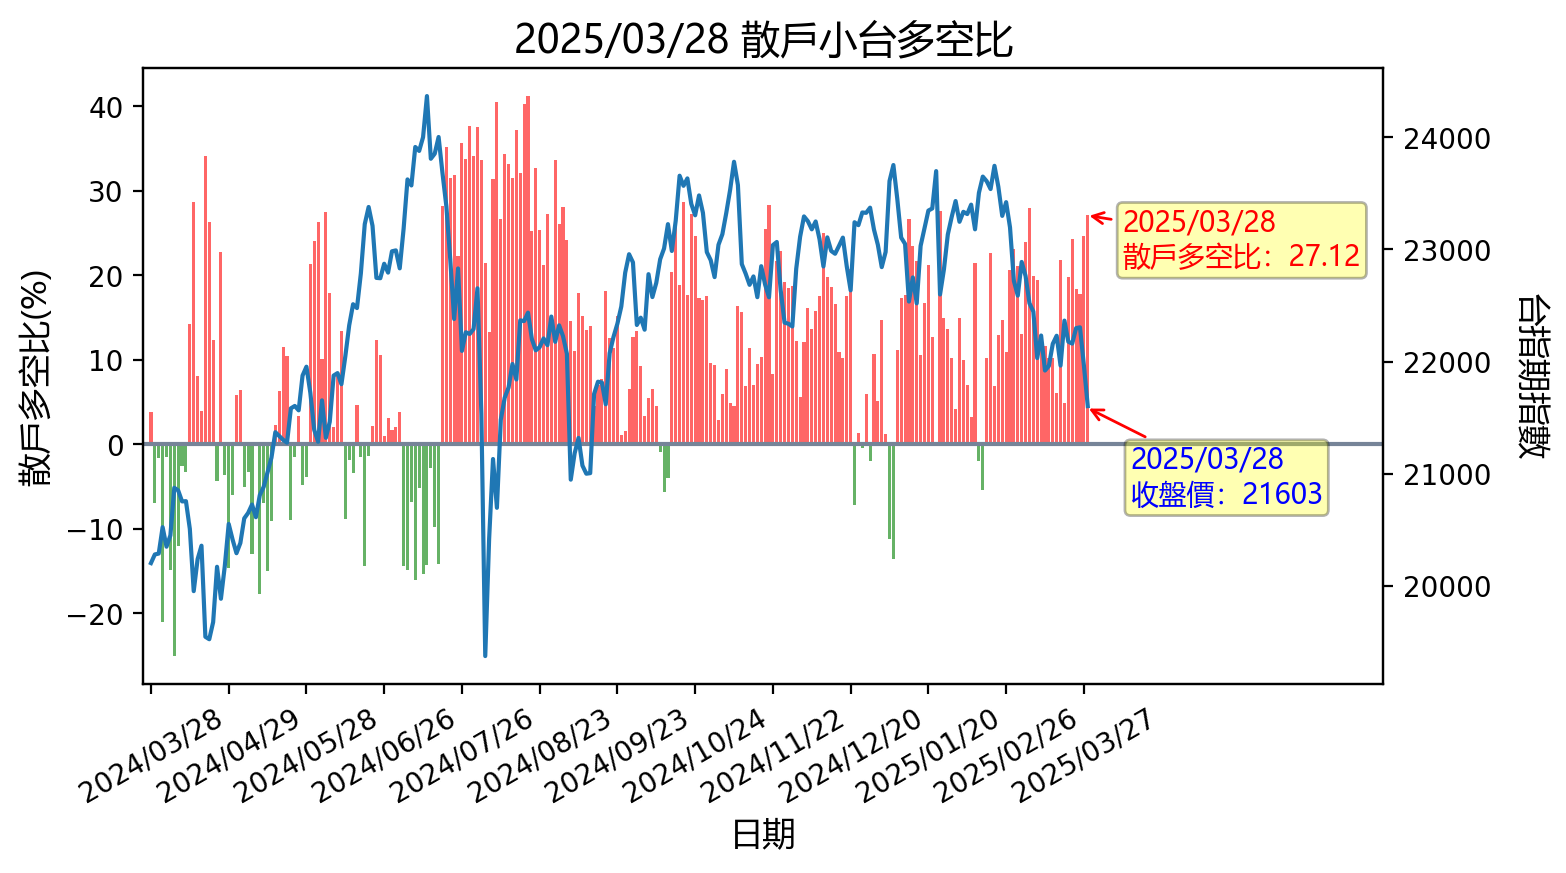
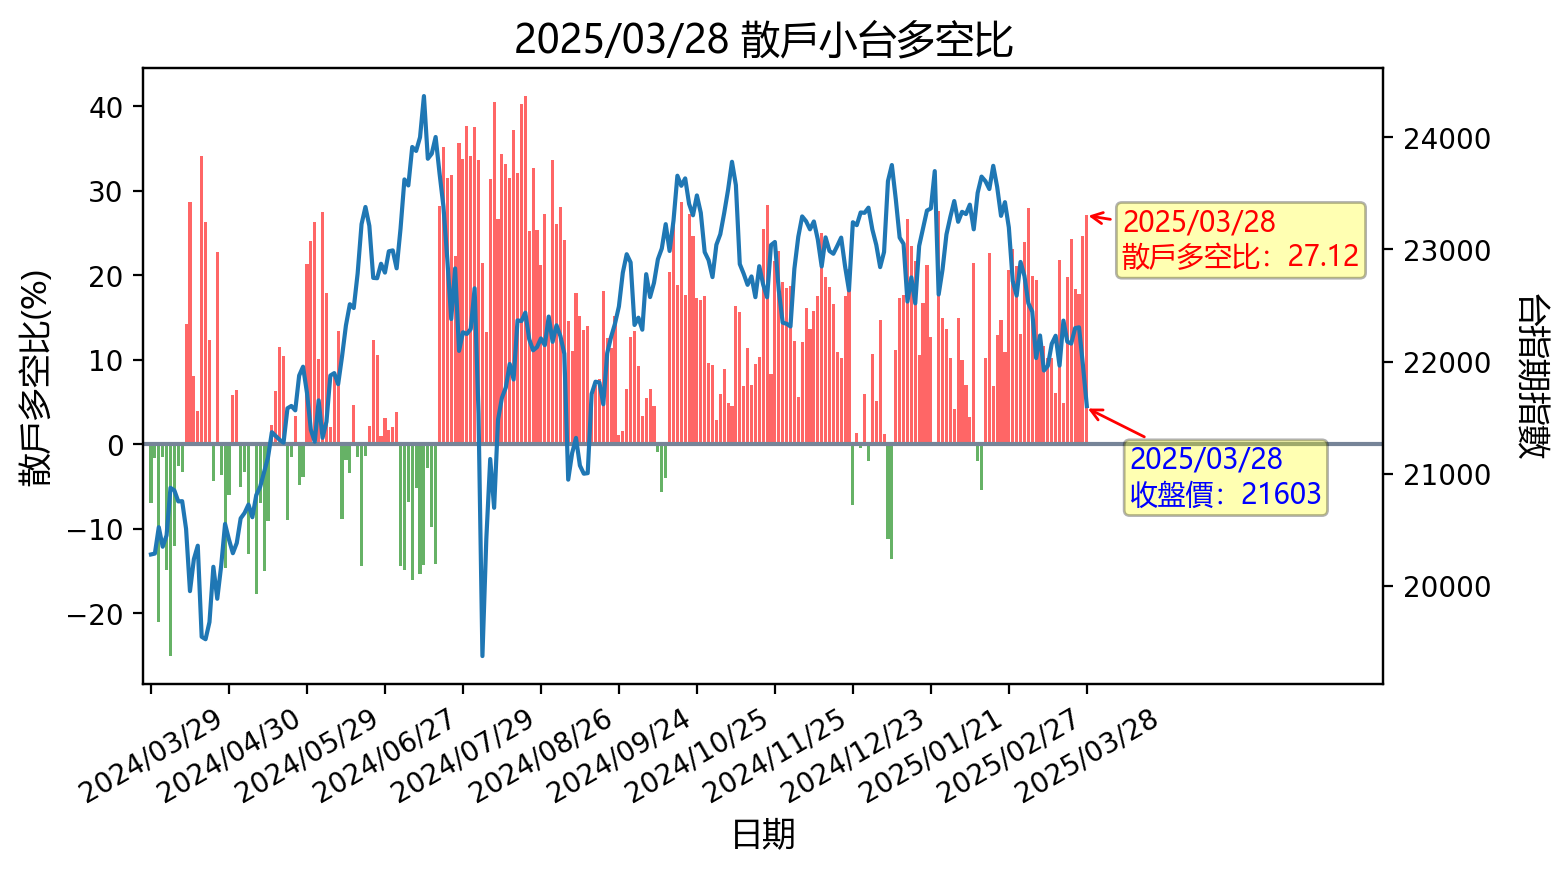
更新時間: Sat Mar 29 16:34:58 CST 2025

Changed region(s): [[0.092, 0.1237, 0.8889, 0.7423], [0.1533, 0.8041, 0.7356, 0.9278], [0.1226, 0.8041, 0.1533, 0.8351]]

diff --git a/README.md b/README.md
@@ -1,12 +1,12 @@
-## 20250328 台指期「預估換倉成本」
+## 20250329 台指期「預估換倉成本」
 ![](images/txfcost.png)
 
-## 20250328 台指期「散戶小台多空比」
+## 20250329 台指期「散戶小台多空比」
 ![](images/bbiri.png)
 
-## 20250328 台指選擇權「Put/Call Ratios」
+## 20250329 台指選擇權「Put/Call Ratios」
 ![](images/pcratio.png)
 
-## 20250328 台指期「大額交易人」
+## 20250329 台指期「大額交易人」
 ![](images/blocktrade.png)
 
